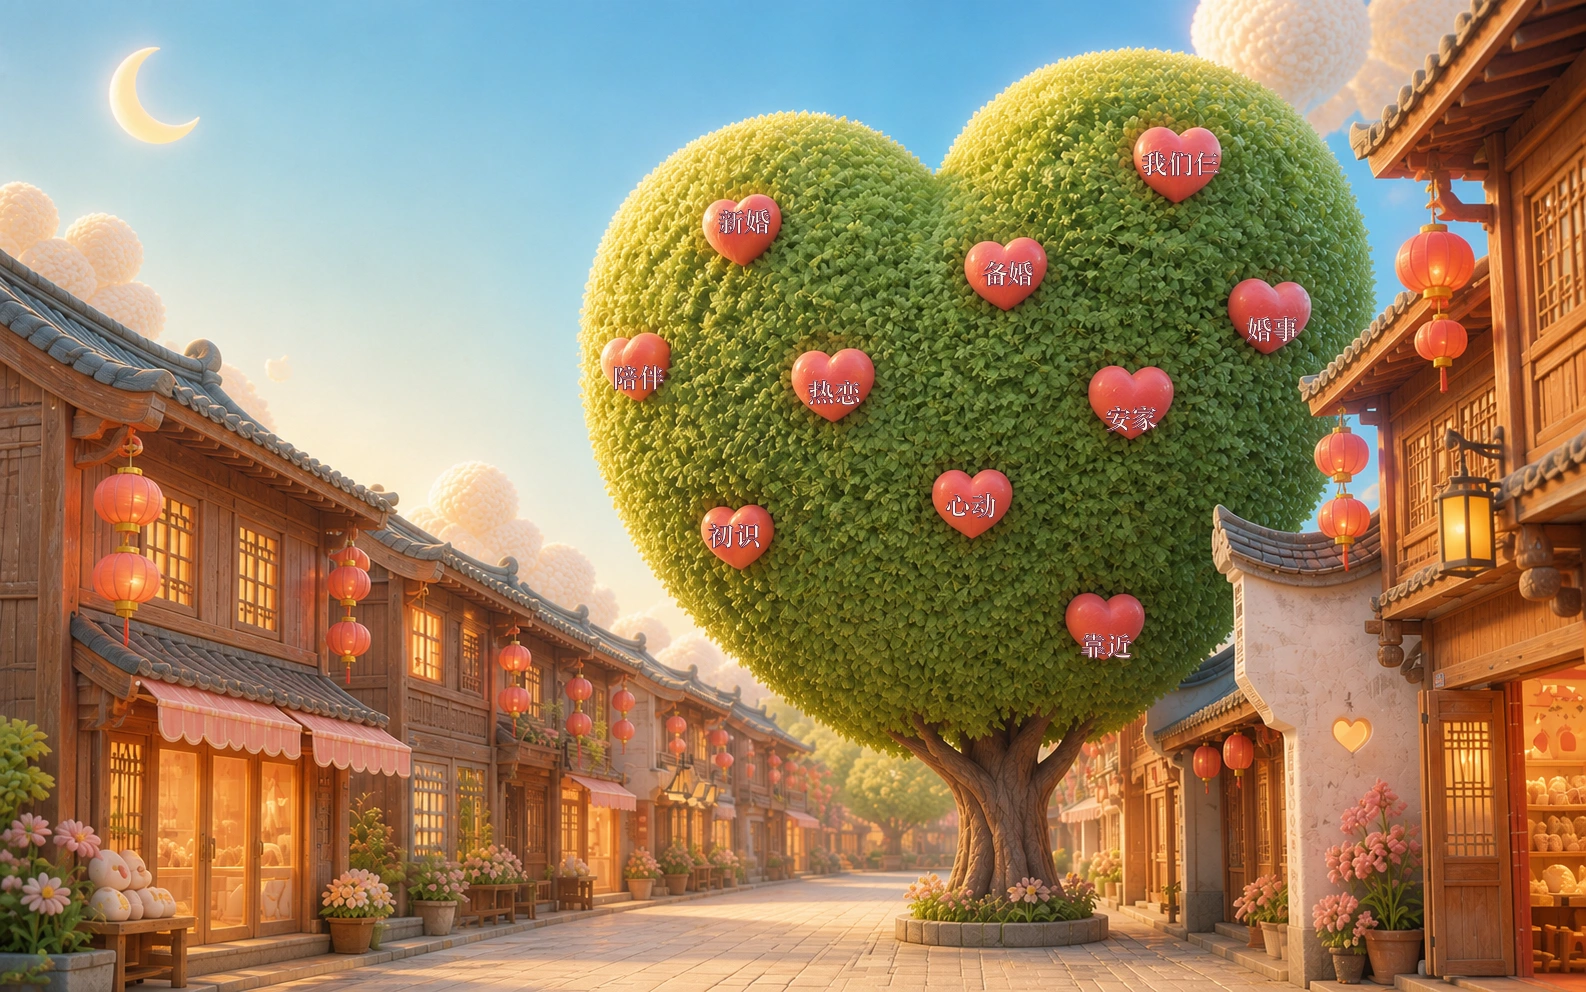
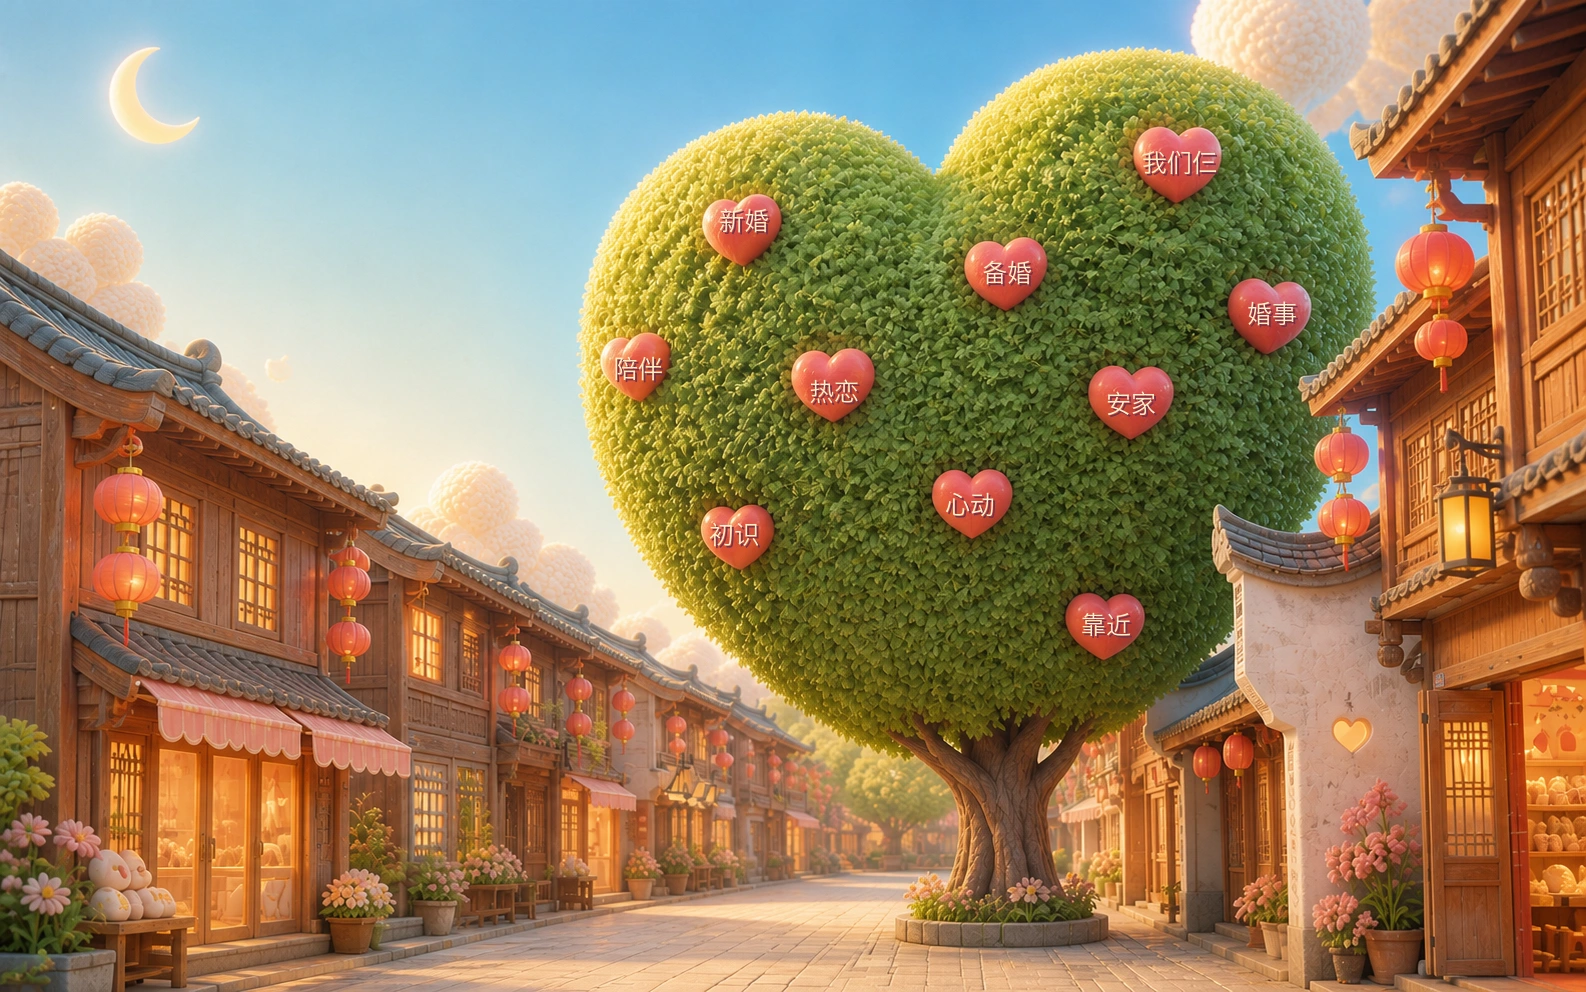
Polish love tree label rendering

diff --git a/index.html b/index.html
@@ -738,7 +738,7 @@ body{
   width:100vw;max-width:none;margin-left:calc(50% - 50vw);
   justify-content:center;text-align:left;overflow:hidden;
   padding:74px 24px 102px;
-  background:url("assets/scene-art/premium/page-19-love-tree-fixed.webp?v=20260820b") center/cover no-repeat;
+  background:url("assets/scene-art/premium/page-19-love-tree-fixed.webp?v=20260820d") center/cover no-repeat;
 }
 .scene-overview::after{
   content:none;
@@ -8178,7 +8178,7 @@ const PLACES = [
         "assets/img/love-tree-fireworks.webp",
         "assets/img/avatar-me.jpg?v=20260819b",
         "assets/img/avatar-you.jpg?v=20260819b",
-        "assets/scene-art/premium/page-19-love-tree-fixed.webp?v=20260820b",
+        "assets/scene-art/premium/page-19-love-tree-fixed.webp?v=20260820d",
         "assets/scene-art/premium/timeline-summary-bg.webp?v=20260819b",
         "assets/scene-art/premium/ending-story-continues.webp?v=20260819b"
       ];
